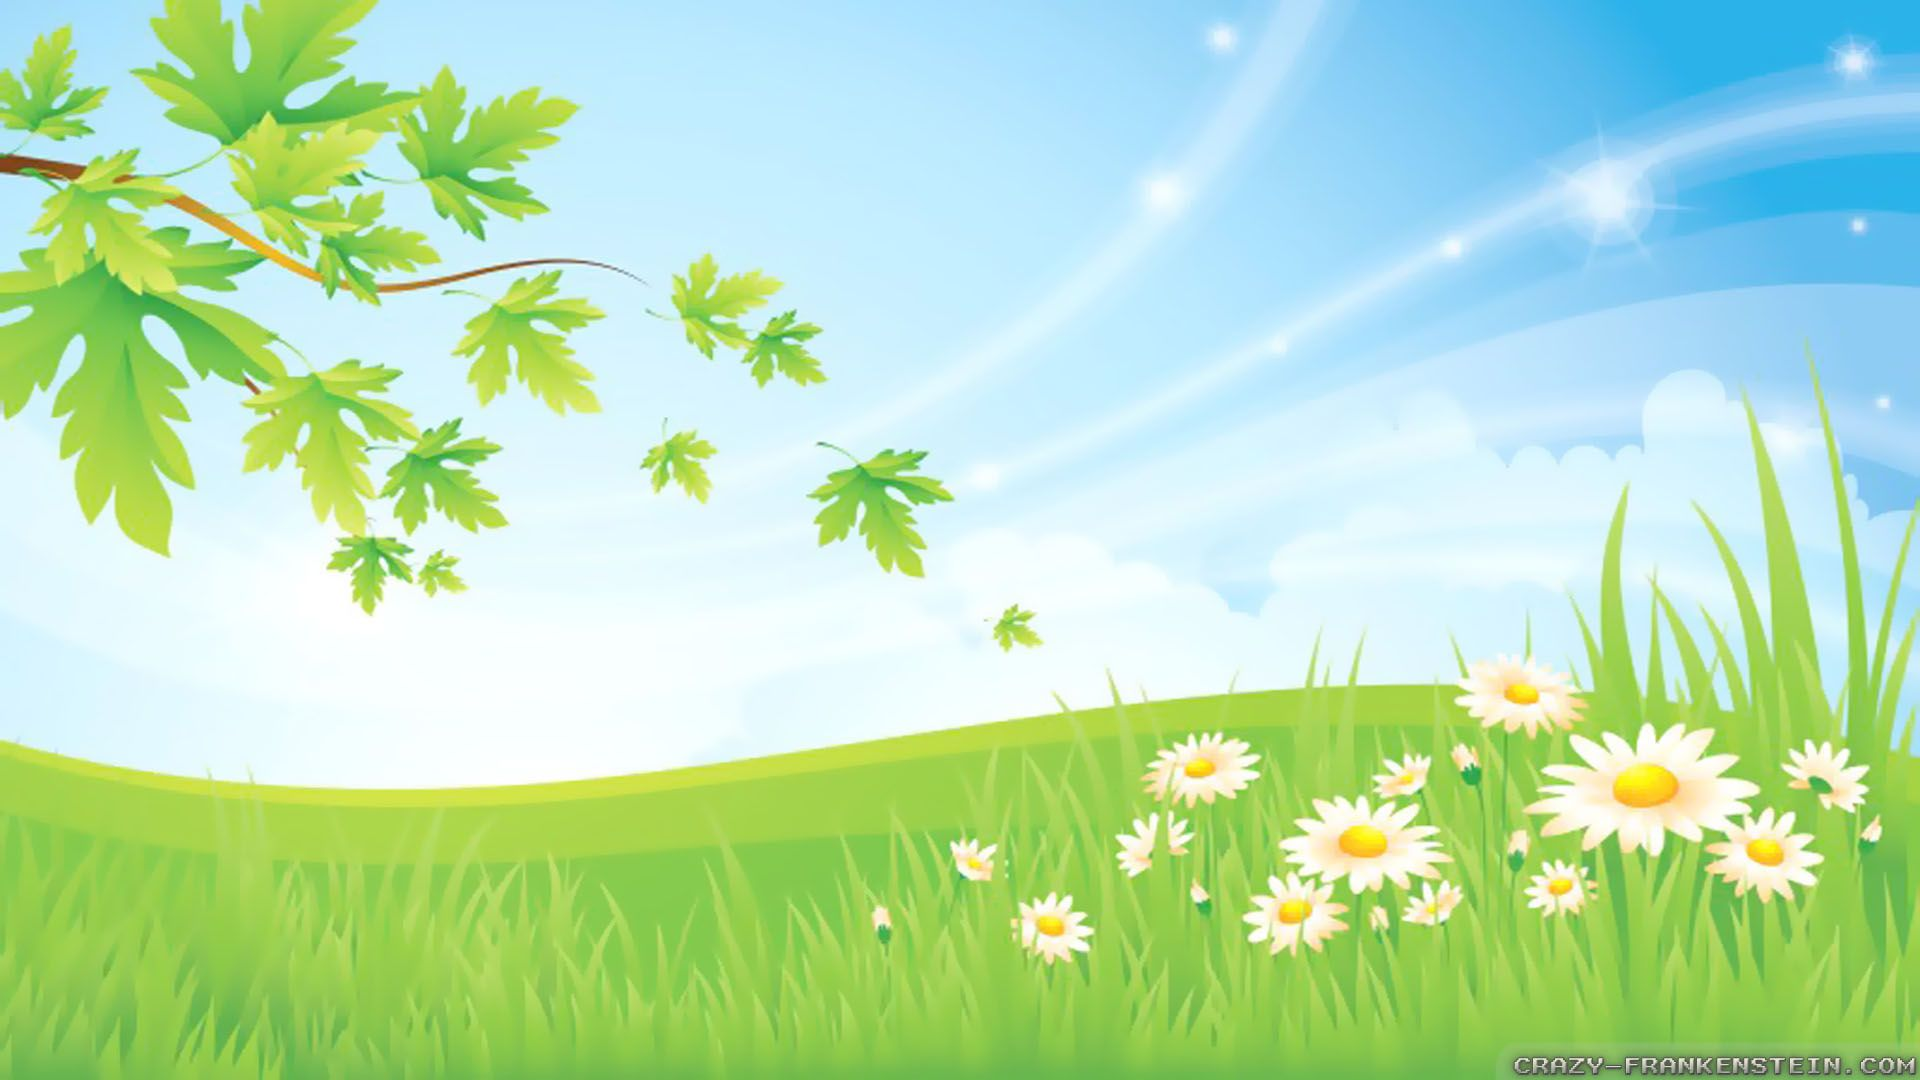
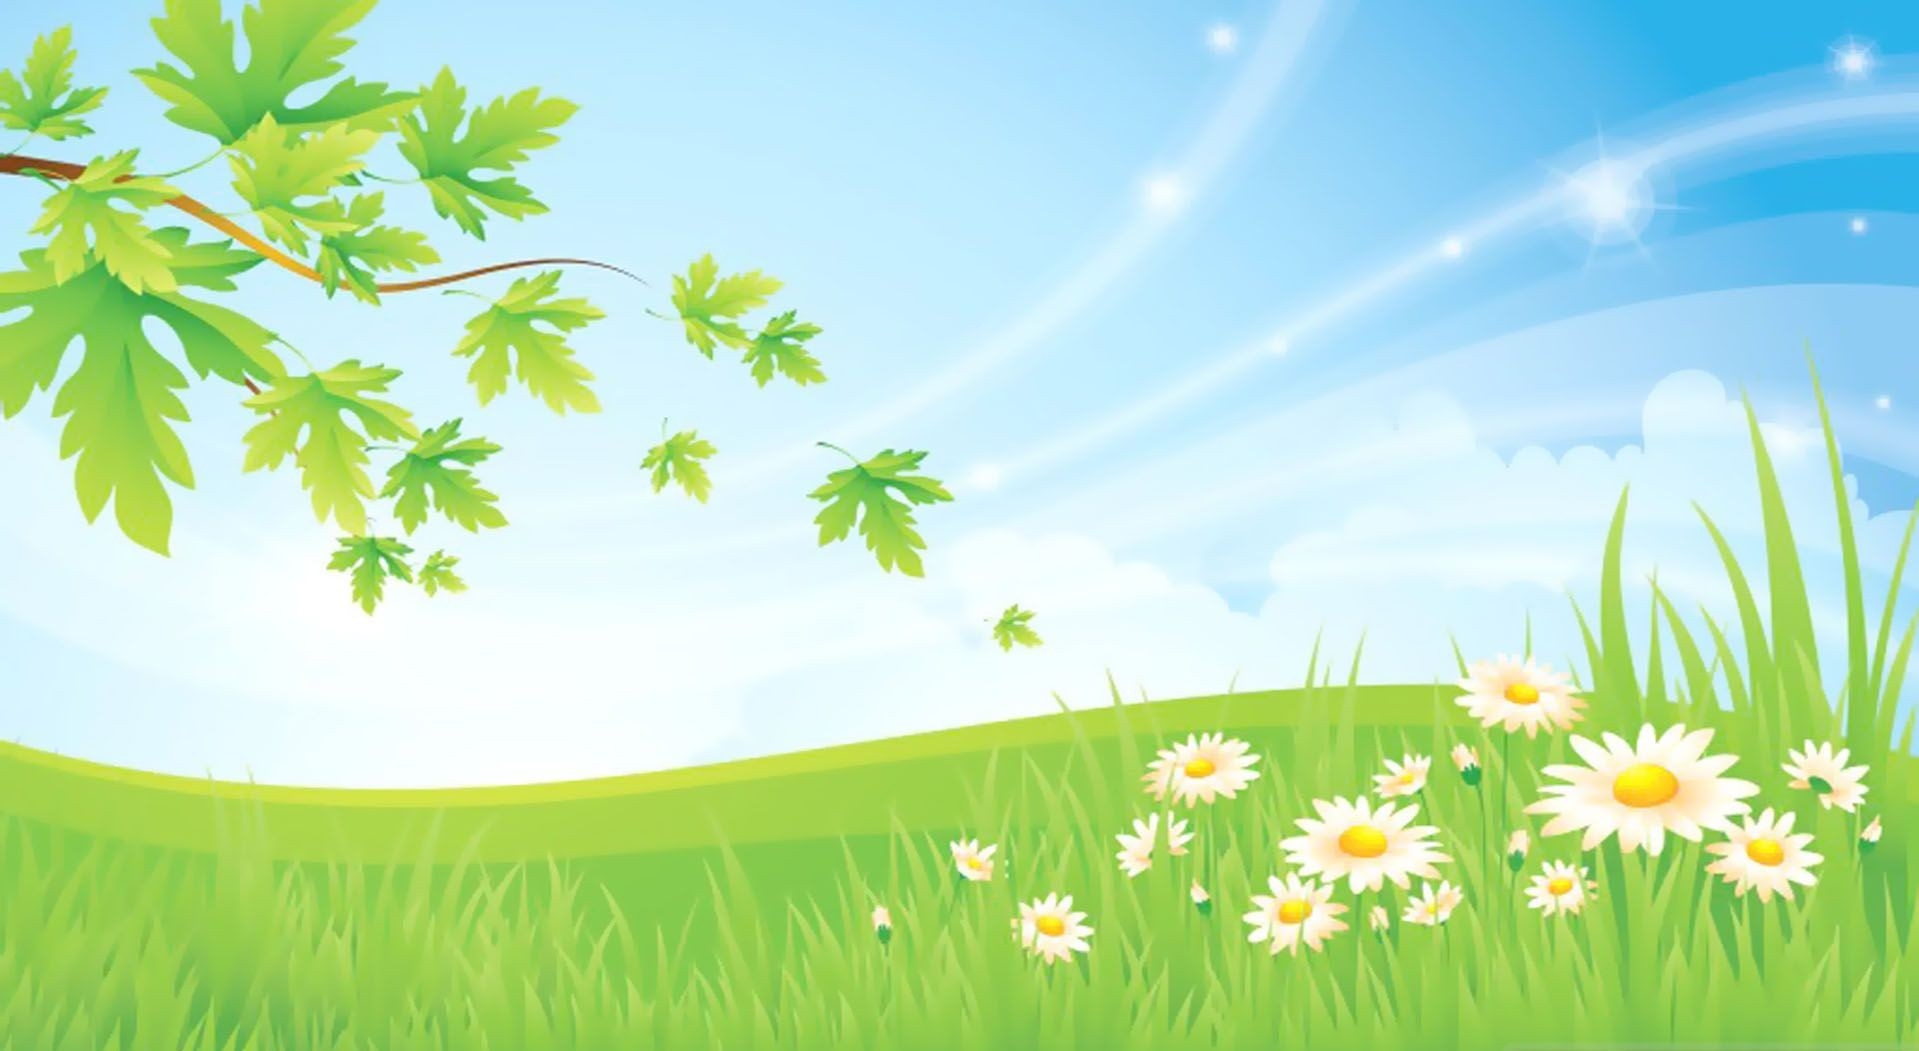
Some basic css styling

diff --git a/index.html b/index.html
@@ -1,14 +1,49 @@
 <!DOCTYPE html>
 <html lang="en">
+
 <head>
+  <link href="https://fonts.googleapis.com/css2?family=Sedgwick+Ave+Display&family=Sue+Ellen+Francisco&display=swap"
+    rel="stylesheet">
+  <link rel="stylesheet" href="css/style.css">
   <meta charset="UTF-8">
   <meta name="viewport" content="width=device-width, initial-scale=1.0">
   <title>Document</title>
 </head>
+
 <body>
-  
-  <script src = "app.js">
-    
-  </script>
+  <header>
+    <h1 id="title">BUNNY BLOOD: <span id="overkill">OVERKILL</span></h1>
+  </header>
+
+  <div class="container" id="summer">
+    <div class="territory" id="player">
+
+      <h1 class="territory-head">Player Territory</h1>
+      <div class="bunnies">
+        <img src="images/bunny.png" alt="bunny" class="bunny-icon">
+        <h2 id="player-num-bunnies">x30</h2>
+      </div>
+    </div>
+
+    <div class="territory" id="enemy">
+
+      <h1 class="territory-head">Enemy Territory</h1>
+
+      <div class="bunnies">
+        <img src="images/bunny.png" alt="bunny" class="bunny-icon">
+        <h2 id="enemy-num-bunnies">x30</h2>
+      </div>
+    </div>
+
+  </div>
+  <footer>
+
+
+  </footer>
+
+  <script src="https://code.jquery.com/jquery-3.5.1.min.js"
+    integrity="sha256-9/aliU8dGd2tb6OSsuzixeV4y/faTqgFtohetphbbj0=" crossorigin="anonymous"></script>
+  <script src="javascript/app.js"></script>
 </body>
+
 </html>

diff --git a/css/style.css b/css/style.css
@@ -1,0 +1,77 @@
+* {
+  margin: 0;
+  padding: 0;
+  font-family: 'Sue Ellen Francisco', cursive;
+  /* border: 1px solid gold; */
+}
+
+#overkill {
+  font-family: 'Sedgwick Ave Display', cursive;
+}
+
+body {
+  height: 100%;
+}
+
+#player {
+  color: blue;
+}
+
+#enemy {
+  color: red;
+}
+
+.bunnies {
+  display: flex;
+}
+
+.bunny-icon {
+  width: 50px;
+}
+
+.territory-head {
+  border-bottom: 4px solid black;
+}
+
+#title {
+  color: white;
+  text-align: center;
+  padding: 5px 0 0 0;
+}
+
+.territory {
+  width: 50%;
+  border: 4px solid black;
+  text-align: center;
+}
+
+header {
+  height: 8vh;
+  width: 100%;
+  background-color: black;
+}
+
+footer {
+  height: 8vh;
+  width: 100%;
+  background-color: black;
+}
+
+.container {
+  height: 84vh;
+  background-position: bottom;
+  display: flex;
+}
+
+#fall {
+  background-image: url('../images/fall.jpg');
+}
+#spring {
+  background-image: url('../images/spring.jpg');
+}
+#summer {
+  background-image: url('../images/summer.jpg');
+}
+#winter {
+  background-image: url('../images/winter.jpg');
+}

diff --git a/javascript/app.js b/javascript/app.js
@@ -122,7 +122,7 @@ let Rabbit = class {
   };
 }
 
-startGame();
+// startGame();
 
 console.log(male.rabbits);
 console.log(female.rabbits);
